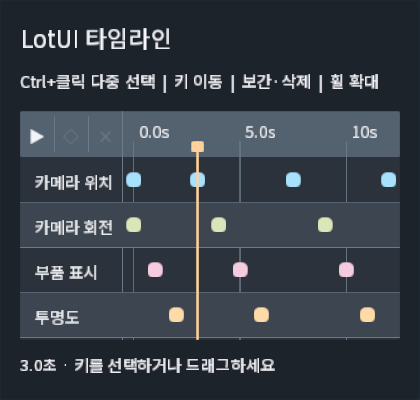
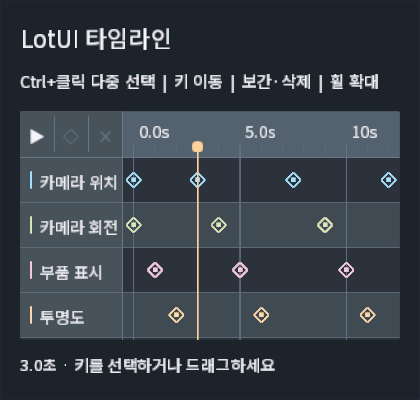
Polish timeline ruler tracks and keyframe markers

diff --git a/widgets/timeline_view.cpp b/widgets/timeline_view.cpp
@@ -33,6 +33,39 @@ std::string tickText(double seconds) {
         << seconds << "s";
     return out.str();
 }
+
+void drawKey(std::vector<PaintCommand>& commands, Rect marker, Rect clip,
+    Color color, TimelineInterpolation interpolation, bool selected,
+    Color halo) {
+    if (selected) {
+        Color tint = halo;
+        tint.alpha = 0.22F;
+        commands.push_back({{marker.x - 4.0F, marker.y - 4.0F,
+            marker.width + 8.0F, marker.height + 8.0F}, clip,
+            tint, invalidTextureId, 6.0F});
+    }
+    if (interpolation == TimelineInterpolation::Smooth) {
+        const Point top{marker.x + marker.width * 0.5F, marker.y};
+        const Point right{marker.x + marker.width, marker.y + marker.height * 0.5F};
+        const Point bottom{top.x, marker.y + marker.height};
+        const Point left{marker.x, right.y};
+        for (const auto& edge : {std::pair{top, right},
+                std::pair{right, bottom}, std::pair{bottom, left},
+                std::pair{left, top}})
+            commands.push_back(linePaintCommand(edge.first, edge.second,
+                selected ? 2.3F : 1.8F, clip, color));
+        commands.push_back({{top.x - 2.0F, right.y - 2.0F, 4.0F, 4.0F},
+            clip, color, invalidTextureId, 1.0F});
+    } else {
+        const float inset = interpolation == TimelineInterpolation::Step
+            ? 1.0F : 0.0F;
+        commands.push_back({{marker.x + inset, marker.y + inset,
+            marker.width - 2.0F * inset,
+            marker.height - 2.0F * inset}, clip, color,
+            invalidTextureId,
+            interpolation == TimelineInterpolation::Linear ? 3.0F : 1.0F});
+    }
+}
 } // namespace
 
 TimelineView::TimelineView(std::shared_ptr<const TextEngine> textEngine,
@@ -255,12 +288,31 @@ void TimelineView::onPaint(std::vector<PaintCommand>& commands) const {
     if (!hasArea(visible)) return;
     commands.push_back({area, visible, style_.background,
         invalidTextureId, 3.0F});
-    commands.push_back({{area.x, area.y, area.width, kRuler}, visible,
+    commands.push_back({{area.x, area.y, area.width,
+        std::min(kRuler, area.height)}, visible,
         style_.header, invalidTextureId, 2.0F});
     const Rect ruler = rulerBounds();
     const float names = nameWidth();
     const Rect timelineClip = intersect(visible, {ruler.x, area.y,
         ruler.width, area.height});
+    commands.push_back({{area.x, area.y, names, ruler.height}, visible,
+        style_.namePanel, invalidTextureId, 2.0F});
+    for (std::size_t i = 0; i < tracks_.size(); ++i) {
+        const float y = area.y + kRuler + static_cast<float>(i) * kRow;
+        if (y >= area.y + area.height) break;
+        const Rect row{area.x, y, area.width, kRow};
+        const bool active = std::any_of(selection_.begin(), selection_.end(),
+            [&](const TimelineKeyRef& key) {
+                return key.trackId == tracks_[i].id;
+            });
+        if (active || i % 2 != 0)
+            commands.push_back({row, intersect(visible, row),
+                active ? style_.selectedRow : style_.alternateRow,
+                invalidTextureId, 0.0F});
+        commands.push_back({{area.x, y, names, kRow},
+            intersect(visible, row), style_.namePanel,
+            invalidTextureId, 0.0F});
+    }
     const float buttonWidth = names / 3.0F;
     const Rect headerClip = intersect(visible,
         {area.x, area.y, names, std::min(kRuler, area.height)});
@@ -287,6 +339,9 @@ void TimelineView::onPaint(std::vector<PaintCommand>& commands) const {
             {area.x + index * buttonWidth,
                 area.y + std::min(kRuler, area.height) - 4.0F},
             1.0F, headerClip, style_.grid));
+    commands.push_back(linePaintCommand({area.x, area.y + kRuler},
+        {area.x + area.width, area.y + kRuler},
+        1.0F, visible, style_.grid));
     commands.push_back(linePaintCommand({ruler.x, area.y},
         {ruler.x, area.y + area.height}, 1.0F, visible, style_.grid));
 
@@ -295,12 +350,24 @@ void TimelineView::onPaint(std::vector<PaintCommand>& commands) const {
     const double magnitude = std::pow(10.0, std::floor(std::log10(rawStep)));
     const double step = rawStep / magnitude <= 2.0 ? 2.0 * magnitude :
         rawStep / magnitude <= 5.0 ? 5.0 * magnitude : 10.0 * magnitude;
+    const double minor = step / 5.0;
+    const double firstMinor = std::ceil(viewStart_ / minor) * minor;
+    for (double t = firstMinor; t <= viewStart_ + viewDuration_;
+            t += minor) {
+        if (std::abs(t / step - std::round(t / step)) < 0.001)
+            continue;
+        const float x = xAt(t);
+        if (x < ruler.x || x > ruler.x + ruler.width) continue;
+        commands.push_back(linePaintCommand({x, area.y + kRuler - 9.0F},
+            {x, area.y + kRuler - 3.0F}, 1.0F,
+            timelineClip, style_.minorGrid));
+    }
     const double first = std::ceil(viewStart_ / step) * step;
     for (double t = first; t <= viewStart_ + viewDuration_ + step * 0.001;
             t += step) {
         const float x = xAt(t);
         if (x < ruler.x || x > ruler.x + ruler.width) continue;
-        commands.push_back(linePaintCommand({x, area.y + 24.0F},
+        commands.push_back(linePaintCommand({x, area.y + kRuler - 10.0F},
             {x, area.y + area.height}, 1.0F, timelineClip, style_.grid));
         auto tick = textEngine_->createLayout(tickText(t), textStyle_, {});
         if (tick && x + 4.0F + tick->size().width <=
@@ -311,32 +378,31 @@ void TimelineView::onPaint(std::vector<PaintCommand>& commands) const {
     for (std::size_t i = 0; i < tracks_.size(); ++i) {
         const float y = area.y + kRuler + static_cast<float>(i) * kRow;
         if (y >= area.y + area.height) break;
-        const Rect row{area.x, y, area.width, kRow};
-        if (i % 2 != 0)
-            commands.push_back({row, intersect(visible, row),
-                style_.alternateRow, invalidTextureId, 0.0F});
         commands.push_back(linePaintCommand({area.x, y + kRow},
-            {area.x + area.width, y + kRow}, 1.0F, visible, style_.grid));
+            {area.x + area.width, y + kRow}, 1.0F,
+            visible, style_.minorGrid));
+        commands.push_back({{area.x + 8.0F, y + 11.0F, 2.0F, 14.0F},
+            intersect(visible, {area.x, y, names, kRow}),
+            tracks_[i].color, invalidTextureId, 1.0F});
         label(commands, tracks_[i].label,
-            {area.x + 12.0F, y + 9.0F},
+            {area.x + 16.0F, y + 9.0F},
             intersect(visible, {area.x, y, names, kRow}), style_.text);
         for (const auto& key : tracks_[i].keys) {
             const Rect marker = keyBounds(tracks_[i].id, key.id);
             if (!hasArea(intersect(marker, timelineClip))) continue;
             const bool chosen = containsSelection({tracks_[i].id, key.id});
-            commands.push_back({marker, timelineClip,
+            drawKey(commands, marker, timelineClip,
                 chosen ? style_.selected : tracks_[i].color,
-                invalidTextureId,
-                key.interpolation == TimelineInterpolation::Smooth ? 5.0F :
-                key.interpolation == TimelineInterpolation::Linear ? 2.0F : 0.0F});
+                key.interpolation, chosen, style_.selected);
         }
     }
     const float playX = xAt(time_);
-    commands.push_back(linePaintCommand({playX, area.y + 24.0F},
-        {playX, area.y + area.height}, 2.0F,
+    commands.push_back(linePaintCommand({playX, area.y + kRuler - 11.0F},
+        {playX, area.y + area.height}, 1.5F,
         timelineClip, style_.playhead));
-    commands.push_back({{playX - 5.0F, area.y + 24.0F, 10.0F, 9.0F},
-        timelineClip, style_.playhead, invalidTextureId, 2.0F});
+    commands.push_back({{playX - 4.5F, area.y + kRuler - 13.0F,
+        9.0F, 9.0F}, timelineClip, style_.playhead,
+        invalidTextureId, 4.0F});
 }
 
 bool TimelineView::acceptsPointerEvents() const noexcept { return true; }

diff --git a/widgets/timeline_view.h b/widgets/timeline_view.h
@@ -38,11 +38,14 @@ struct TimelineKeyRef {
 struct TimelineViewStyle {
     Color background{0.025F, 0.032F, 0.045F, 1.0F};
     Color header{0.09F, 0.12F, 0.16F, 1.0F};
-    Color alternateRow{0.045F, 0.06F, 0.08F, 1.0F};
-    Color grid{0.16F, 0.21F, 0.27F, 1.0F};
+    Color alternateRow{0.052F, 0.069F, 0.087F, 1.0F};
+    Color grid{0.15F, 0.20F, 0.25F, 1.0F};
     Color text{0.88F, 0.91F, 0.95F, 1.0F};
     Color playhead{0.98F, 0.64F, 0.32F, 1.0F};
     Color selected{1.0F, 0.9F, 0.57F, 1.0F};
+    Color namePanel{0.065F, 0.084F, 0.106F, 1.0F};
+    Color minorGrid{0.115F, 0.15F, 0.19F, 1.0F};
+    Color selectedRow{0.075F, 0.105F, 0.13F, 1.0F};
 };
 
 class TimelineView final : public Widget {

diff --git a/docs/timeline-view.md b/docs/timeline-view.md
@@ -35,6 +35,10 @@ The track-name column narrows with the widget, while the ruler recomputes its
 tick spacing and keeps tick labels inside the visible edge. In compact panels,
 the interpolation and delete controls show symbols; all three remain clickable.
 Resize does not change key times or selection.
+The ruler has subdued minor ticks, each track carries a narrow color accent,
+and smooth/linear/step keys use diamond/rounded/square marks. Selected keys
+receive a soft halo and their track row gains a subtle highlight. The painted
+mark stays within the same hit area used for pointer selection and dragging.
 Space toggles playback, F2 cycles interpolation, Delete removes selected keys,
 Left/Right seek and Home returns to zero. Key dragging previews locally and
 calls `setOnKeysMoved()` once on release when that callback is installed. A
@@ -52,6 +56,8 @@ demo builds separately in
 | Compact window | Expanded window |
 | --- | --- |
 | ![Compact timeline](images/timeline-compact.png) | ![Expanded timeline](images/timeline-expanded.png) |
+
+![Selected keyframes with linear interpolation](images/timeline-edits.png)
 
 The 3dEngine adapter lives in its `samples/lotui_smoke` directory. It reads
 real timeline tracks through the engine C API and checks group drag,
